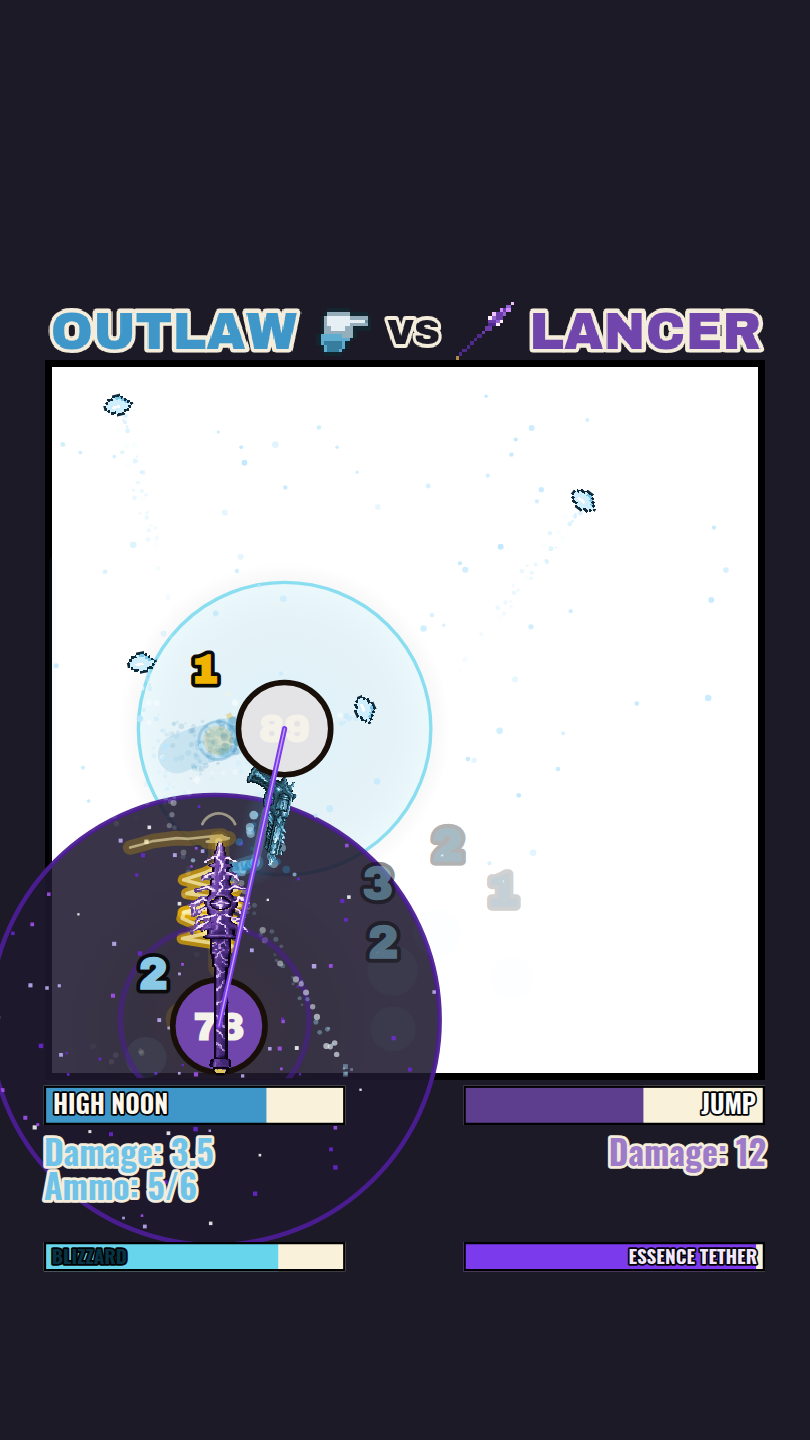
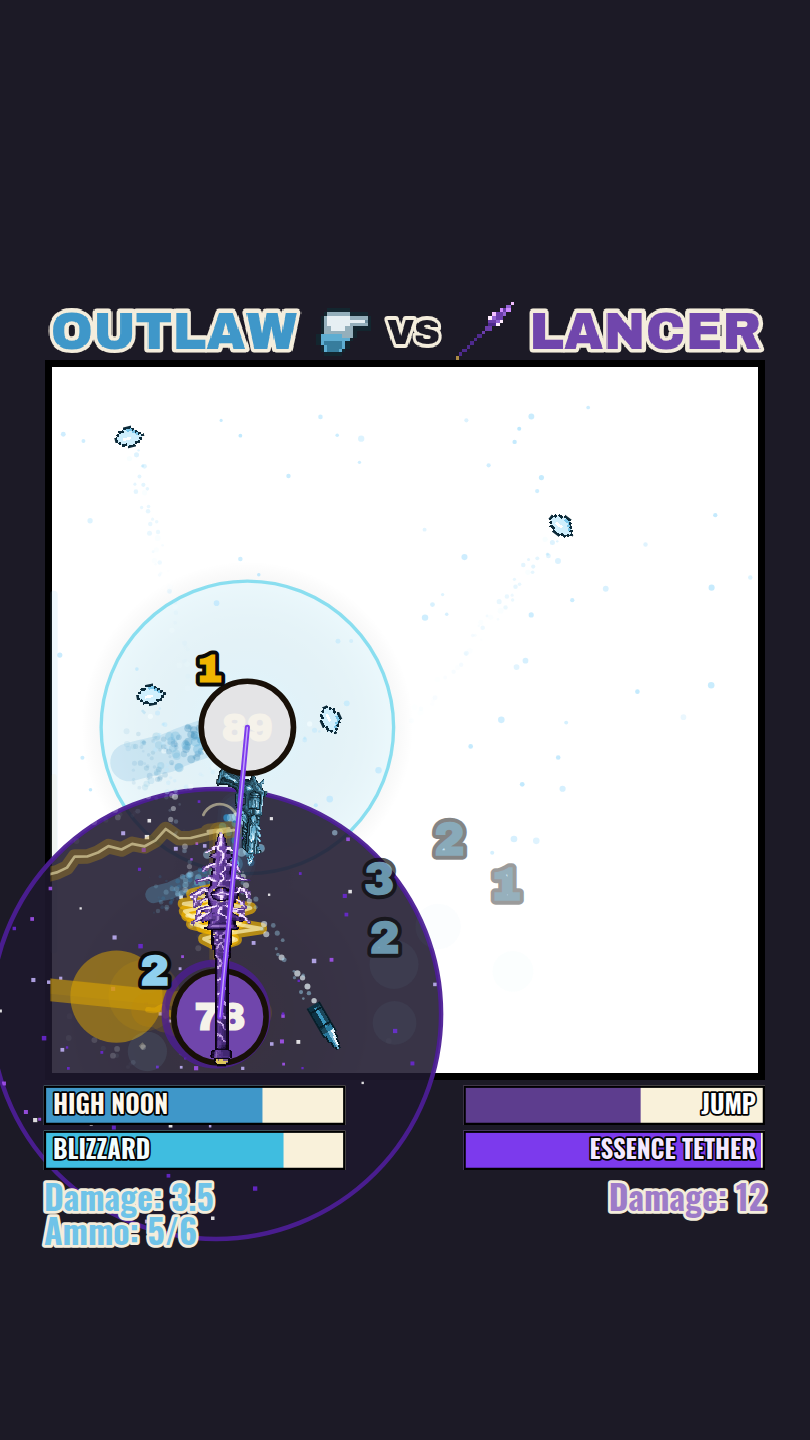
La jauge de pouvoir spécial passe juste sous celle de l'ultime, à l'identique
La seconde jauge vivait tout en bas, sous les lignes de statistique, et dans
un format réduit — libellé plus petit, barre plus basse. Elle se lisait comme
un petit frère de la jauge d'ultime plutôt que comme sa paire.

Elle est maintenant collée dessous et **identique** : `HUD.special` recopie
`HUD.bar` à l'ordonnée près (mêmes largeur, hauteur, abscisses, cadre, taille
et retrait de libellé). `y` vaut 1005, soit le bas de la jauge d'ultime
(965 + 35) plus les 5 px d'écart que la vidéo laisse avant la ligne de stat.

L'égalité n'est pas une copie de constantes
--------------------------------------------
`render/hud.js` traçait les deux jauges avec deux fonctions séparées, et
l'une avait déjà dérivé de l'autre. Elles passent désormais par **le même**
tracé (`drawGauge`), appelé avec deux géométries : une retouche de style les
touche toutes les deux par construction, et elles ne peuvent plus diverger.

Le fichier perd une trentaine de lignes au passage, malgré la fonction
ajoutée.

Les lignes de statistique descendent
-------------------------------------
Base 1036 -> 1076. C'est un écart assumé au relevé : la seconde jauge occupe
la bande où les glyphes tombaient. Le décalage vaut exactement la hauteur de
la jauge plus son écart (35 + 5), donc les proportions relevées entre jauge
et texte sont conservées — c'est le bloc entier qui glisse, pas l'espacement
qui change.

Le libellé du Blizzard reprend le traitement des jauges d'ultime — texte
[…]

diff --git a/src/render/hud.js b/src/render/hud.js
@@ -1,8 +1,12 @@
 /**
- * HUD bas d'écran : deux jauges d'ultime, la ligne de statistique de chaque
- * combattant, et — pour qui en porte un — une jauge de **pouvoir spécial**.
- * La géométrie des deux premiers est relevée au pixel sur la vidéo ; celle de
- * la troisième est déduite (voir `HUD.special` dans data/tuning.js).
+ * HUD bas d'écran : par combattant, une jauge d'ultime, une jauge de **pouvoir
+ * spécial** juste en dessous pour qui en porte un, puis ses lignes de
+ * statistique.
+ *
+ * Les deux jauges passent par **le même tracé** (`drawGauge`) : elles ne se
+ * ressemblent pas, elles sont identiques par construction. Seule leur
+ * géométrie diffère, et encore : `HUD.special` recopie `HUD.bar` à l'ordonnée
+ * près.
  *
  * @module render/hud
  */
@@ -12,7 +16,6 @@ import { clamp } from '../core/math.js';
 import { drawFittedText } from './text.js';
 
 const BAR_FONT = `700 ${HUD.bar.labelSize}px "Oswald", "Arial Narrow", sans-serif`;
-const SPEC_FONT = `700 ${HUD.special.labelSize}px "Oswald", "Arial Narrow", sans-serif`;
 const STAT_FONT = `700 ${HUD.stat.fontSize}px "Oswald", "Arial Narrow", sans-serif`;
 
 /**
@@ -26,85 +29,69 @@ const STAT_FONT = `700 ${HUD.stat.fontSize}px "Oswald", "Arial Narrow", sans-ser
  *   pas de deuxième jauge, ils ne laissent pas un cadre vide.
  */
 export function drawFighterHud(ctx, f, side, value, lang, spec) {
-  drawBar(ctx, f, side, value, lang);
+  drawGauge(ctx, HUD.bar, side, value, {
+    fill: f.el.ultimate.barFill,
+    text: f.el.ultimate.barText,
+    label: (lang === 'fr' && f.el.ultimate.barLabelFr) || f.el.ultimate.barLabel,
+    anchorRight: (f.el.ultimate.barAnchor ?? 'left') === 'right',
+  });
+  if (spec) {
+    drawGauge(ctx, HUD.special, side, spec.value, {
+      fill: f.el.special.barFill,
+      text: f.el.special.barText,
+      label: (lang === 'fr' && f.el.special.barLabelFr) || f.el.special.barLabel,
+    });
+  }
   drawStat(ctx, f, side, lang);
-  if (spec) drawSpecialBar(ctx, f, side, spec, lang);
 }
 
-function drawBar(ctx, f, side, value, lang) {
-  const b = HUD.bar;
-  const ult = f.el.ultimate;
-  const x = side === 'left' ? b.leftX : b.rightX;
+/**
+ * **Une jauge, et une seule fonction pour les deux rangées.**
+ *
+ * L'ultime et le pouvoir spécial partagent le même dessin : plaque crème,
+ * remplissage, cadre noir, libellé cerné de noir. Les deux rangées n'ont donc
+ * pas deux tracés qui se ressemblent — elles ont **le même**, appelé avec deux
+ * géométries. C'est ce qui garantit qu'elles ne peuvent plus diverger : une
+ * retouche de style les touche toutes les deux par construction.
+ *
+ * La première version en avait deux copies, dont l'une avait dérivé (libellé
+ * plus petit, couleur inversée selon l'état). Retoucher l'une sans l'autre est
+ * exactement le genre d'écart qui ne crie jamais.
+ *
+ * @param {CanvasRenderingContext2D} ctx
+ * @param {{y:number,height:number,width:number,leftX:number,rightX:number,border:number,labelPad:number}} g géométrie
+ * @param {'left'|'right'} side
+ * @param {number} value 0..1
+ * @param {{fill:string, text:string, label:string, anchorRight?:boolean}} style
+ */
+function drawGauge(ctx, g, side, value, style) {
+  const x = side === 'left' ? g.leftX : g.rightX;
   const v = clamp(value, 0, 1);
-  const anchorRight = (ult.barAnchor ?? 'left') === 'right';
 
   // plaque crème : l'intérieur de la jauge reste celui de la vidéo, même sur
   // le fond sombre — le libellé peut donc garder son contour noir
   ctx.fillStyle = STAGE.plate;
-  ctx.fillRect(x, b.y, b.width, b.height);
+  ctx.fillRect(x, g.y, g.width, g.height);
 
   // remplissage
-  const w = b.width * v;
-  ctx.fillStyle = ult.barFill;
-  ctx.fillRect(anchorRight ? x + b.width - w : x, b.y, w, b.height);
+  const w = g.width * v;
+  ctx.fillStyle = style.fill;
+  ctx.fillRect(style.anchorRight ? x + g.width - w : x, g.y, w, g.height);
 
   // cadre
   ctx.lineJoin = 'miter';
-  ctx.lineWidth = b.border;
+  ctx.lineWidth = g.border;
   ctx.strokeStyle = '#000000';
-  ctx.strokeRect(x + b.border / 2, b.y + b.border / 2, b.width - b.border, b.height - b.border);
+  ctx.strokeRect(x + g.border / 2, g.y + g.border / 2, g.width - g.border, g.height - g.border);
 
   // libellé
   ctx.font = BAR_FONT;
   ctx.textBaseline = 'middle';
   ctx.textAlign = side === 'left' ? 'left' : 'right';
-  const tx = side === 'left' ? x + b.labelPad : x + b.width - b.labelPad;
-  const label = (lang === 'fr' && ult.barLabelFr) || ult.barLabel;
-  drawFittedText(ctx, label, tx, b.y + b.height / 2 + 1, b.width - b.labelPad * 2, {
-    fill: ult.barText,
+  const tx = side === 'left' ? x + g.labelPad : x + g.width - g.labelPad;
+  drawFittedText(ctx, style.label, tx, g.y + g.height / 2 + 1, g.width - g.labelPad * 2, {
+    fill: style.text,
     stroke: '#000000',
-    strokeWidth: 3,
-  });
-}
-
-/**
- * Jauge du pouvoir spécial.
- *
- * Elle dit **deux choses avec le même remplissage**, et c'est voulu : hors
- * activité elle se remplit vers la prochaine incantation, pendant l'activité
- * elle se vide sur la durée restante. C'est la convention des jauges d'ultime
- * du jeu (`barValue` fait exactement ça), donc rien de nouveau à apprendre.
- *
- * Ce qui distingue les deux régimes n'est pas la jauge mais le **libellé** :
- * inversé sur fond plein pendant l'activité, posé sur la plaque crème sinon.
- * Sans ça, une jauge à moitié pleine ne dit pas si le pouvoir arrive ou s'en
- * va.
- */
-function drawSpecialBar(ctx, f, side, spec, lang) {
-  const b = HUD.special;
-  const sp = f.el.special;
-  const x = side === 'left' ? b.leftX : b.rightX;
-  const v = clamp(spec.value, 0, 1);
-
-  ctx.fillStyle = STAGE.plate;
-  ctx.fillRect(x, b.y, b.width, b.height);
-
-  ctx.fillStyle = sp.barFill;
-  ctx.fillRect(x, b.y, b.width * v, b.height);
-
-  ctx.lineJoin = 'miter';
-  ctx.lineWidth = b.border;
-  ctx.strokeStyle = '#000000';
-  ctx.strokeRect(x + b.border / 2, b.y + b.border / 2, b.width - b.border, b.height - b.border);
-
-  ctx.font = SPEC_FONT;
-  ctx.textBaseline = 'middle';
-  ctx.textAlign = side === 'left' ? 'left' : 'right';
-  const tx = side === 'left' ? x + b.labelPad : x + b.width - b.labelPad;
-  const label = (lang === 'fr' && sp.barLabelFr) || sp.barLabel;
-  drawFittedText(ctx, label, tx, b.y + b.height / 2 + 1, b.width - b.labelPad * 2, {
-    fill: spec.active ? sp.barText : '#1c1a26',
-    stroke: spec.active ? '#000000' : STAGE.plate,
     strokeWidth: 3,
   });
 }

diff --git a/src/data/tuning.js b/src/data/tuning.js
@@ -76,38 +76,45 @@ export const HUD = deepFreeze({
     labelSize: 22,
     labelPad: 8,
   },
-  // Lignes de statistique sous les jauges : glyphes 1005→1038.
-  // Certains éléments en affichent deux (Lumière : dégâts + recul,
-  // Eau : dégâts + taille) — interligne mesuré sur ces vidéos : 31 px.
+  /**
+   * **Jauge de pouvoir spécial, collée sous celle de l'ultime.**
+   *
+   * Tout est recopié de `bar` sauf `y` : mêmes largeur, hauteur, abscisses,
+   * cadre et libellé. C'est voulu — les deux rangées doivent se lire comme une
+   * paire, pas comme une jauge et son petit frère. `render/hud.js` les trace
+   * d'ailleurs avec **la même fonction**, donc l'égalité ne peut pas se perdre
+   * dans une retouche.
+   *
+   * `y` vaut 1005 : le bas de la jauge d'ultime (965 + 35) plus les 5 px
+   * d'écart que la vidéo laisse entre cette jauge et la ligne de stat.
+   */
+  special: {
+    y: 1005,
+    height: 35,
+    width: 268,
+    leftX: 39,
+    rightX: 412,
+    border: 2,
+    labelSize: 22,
+    labelPad: 8,
+  },
+  /**
+   * Lignes de statistique. Glyphes mesurés 1005→1038, soit une base à 1036 ;
+   * interligne mesuré 31 px sur les vidéos à deux lignes (Lumière, Eau).
+   *
+   * **La base descend de 1036 à 1076**, écart assumé au relevé : la seconde
+   * jauge occupe désormais la bande où les glyphes tombaient. Le décalage vaut
+   * exactement la hauteur de cette jauge plus son écart (35 + 5), donc les
+   * proportions relevées entre jauge et texte sont conservées — c'est le bloc
+   * entier qui glisse, pas l'espacement qui change.
+   */
   stat: {
-    baseline: 1036,
+    baseline: 1076,
     lineHeight: 31,
     fontSize: 30,
     leftX: 39,
     rightX: 681,
     strokeWidth: 5,
-  },
-  /**
-   * **Jauges de pouvoir spécial**, sous les lignes de statistique.
-   *
-   * Rien de mesuré ici : la vidéo de référence n'a pas de troisième créneau de
-   * pouvoir, donc pas de troisième jauge. La géométrie est **déduite** de
-   * celle des jauges d'ultime — mêmes `x` et mêmes largeurs, pour que les deux
-   * rangées s'alignent — et posée sous la deuxième ligne de stat (base 1067,
-   * jambages jusqu'à ~1078), qui est le cas le plus chargé du roster.
-   *
-   * Elles sont plus basses et plus discrètes que celles de l'ultime : un
-   * pouvoir greffé ne doit pas se lire comme l'ultime du personnage.
-   */
-  special: {
-    y: 1104,
-    height: 26,
-    width: 268,
-    leftX: 39,
-    rightX: 412,
-    border: 2,
-    labelSize: 17,
-    labelPad: 7,
   },
 });
 

diff --git a/src/data/elements.js b/src/data/elements.js
@@ -1624,8 +1624,11 @@ const OUTLAW = {
      *  venir son déclenchement au lieu de le subir. */
     barLabel: 'BLIZZARD',
     barLabelFr: 'BLIZZARD',
-    barFill: '#67d6ec',
-    barText: '#083344',
+    /** Même traitement de libellé que les jauges d'ultime — texte clair cerné
+     *  de noir — donc le fond doit être assez tenu pour le porter : `#67d6ec`
+     *  était trop pâle une fois le libellé passé à la taille de l'ultime. */
+    barFill: '#3fbde0',
+    barText: '#f2fdff',
     /** Calé : les duels du roster réduit durent 10 à 20 s. À 14 s d'horloge
      *  le Blizzard ne partait presque jamais et ne se voyait qu'en duel long ;
      *  à 5 s il tourne en continu. 9 s laisse deux incantations dans un duel

diff --git a/docs/FICHES.md b/docs/FICHES.md
@@ -511,19 +511,31 @@ exactement la forme des compteurs génériques du `Fighter` (`offstage`, `boost`
 l'interprète. Rien ne passe par `f.ult`, donc ni la jauge, ni la charge, ni la
 durée des deux ultimes existants ne sont touchées.
 
-**Ils ont leur propre jauge, sur une seconde rangée.** Le HUD n'en portait
-qu'une, celle de l'ultime ; `HUD.special` en ajoute une deuxième, plus basse et
-plus discrète, sous les lignes de statistique. Sa géométrie est **déduite** de
-celle des jauges d'ultime — mêmes `x`, mêmes largeurs, pour que les deux
-rangées s'alignent — et non relevée : la vidéo de référence n'a pas de
-troisième créneau de pouvoir.
+**Ils ont leur propre jauge, collée sous celle de l'ultime.**
 
-Elle dit **deux choses avec le même remplissage**, comme les jauges d'ultime :
+![Les deux rangées de jauges](capture-jauges.png)
+
+`HUD.special` recopie `HUD.bar` **à l'ordonnée près** : mêmes largeur, hauteur,
+abscisses, cadre, taille et retrait de libellé. Les deux rangées doivent se
+lire comme une paire, pas comme une jauge et son petit frère.
+
+Et l'égalité n'est pas une copie de constantes : `render/hud.js` trace les deux
+avec **la même fonction** (`drawGauge`), appelée avec deux géométries. Une
+retouche de style les touche donc toutes les deux par construction. La première
+version en avait deux tracés séparés, et l'un avait déjà dérivé — libellé plus
+petit, couleur du texte inversée selon l'état. Retoucher l'un sans l'autre est
+exactement le genre d'écart qui ne crie jamais.
+
+**Les lignes de statistique descendent de 1036 à 1076.** C'est un écart assumé
+au relevé : la seconde jauge occupe la bande où les glyphes tombaient. Le
+décalage vaut exactement la hauteur de la jauge plus son écart (35 + 5), donc
+les proportions relevées entre jauge et texte sont conservées — c'est le bloc
+entier qui glisse, pas l'espacement qui change.
+
+La jauge dit **deux choses avec le même remplissage**, comme celles d'ultime :
 elle se remplit vers la prochaine incantation, puis se vide sur la durée
-d'activité. Ce qui distingue les deux régimes n'est pas la jauge mais le
-**libellé** — inversé sur fond plein pendant l'activité, posé sur la plaque
-crème sinon. Sans ça, une jauge à moitié pleine ne dirait pas si le pouvoir
-arrive ou s'en va.
+d'activité. C'est la convention du jeu (`barValue` fait exactement ça), donc
+rien de nouveau à apprendre.
 
 Le module l'alimente par `specialBar(f)`, méthode **optionnelle** de la même
 forme que `drawUnbounded` : les neuf combattants sans troisième créneau ne

diff --git a/CLAUDE.md b/CLAUDE.md
@@ -807,12 +807,16 @@ couleurs par percentile plutôt que par moyenne, le JPEG bruite).
   rien ne passe par `f.ult`, donc HIGH NOON et le Bond sont intacts. La
   contrepartie était qu'il **n'avait pas de jauge**, le HUD n'en portant qu'une.
   Il en porte maintenant **deux rangées** : `HUD.special` ajoute une seconde
-  barre, plus basse et plus discrète, sous les lignes de statistique. Sa
-  géométrie est **déduite** de celle des jauges d'ultime (mêmes `x`, même
-  largeur) et non relevée — la vidéo de référence n'a pas de troisième créneau
-  de pouvoir. Un module l'alimente par `specialBar(f)`, méthode **optionnelle** :
-  les neuf combattants sans troisième créneau ne l'implémentent pas, et
-  n'affichent donc pas un cadre vide.
+  barre **collée sous celle de l'ultime**, et **identique** à elle — mêmes
+  largeur, hauteur, abscisses, cadre et taille de libellé. Les deux passent par
+  le **même tracé** (`drawGauge` dans `render/hud.js`), donc elles ne peuvent
+  pas diverger : la première version en avait deux copies, dont l'une avait
+  déjà dérivé. Les lignes de statistique descendent d'autant (base 1036 → 1076,
+  soit exactement la hauteur de la jauge plus son écart) — écart assumé au
+  relevé, c'est le bloc entier qui glisse. Un module alimente la jauge par
+  `specialBar(f)`, méthode **optionnelle** : les neuf combattants sans
+  troisième créneau ne l'implémentent pas, et n'affichent donc pas un cadre
+  vide.
 - **Regrouper autrement les mêmes produits change le résultat.** En réécrivant
   `bladeSegment()` pour y loger la vrille, `c * reach * hitbox.from` est devenu
   `c * (reach * hitbox.from)`. La multiplication flottante **n'est pas

diff --git a/README.md b/README.md
@@ -31,7 +31,7 @@ leurs couleurs, leurs armes et leurs formules relevées sur *leur* vidéo.
 | **Lancier** | Lance électrique (**164 px, la plus longue portée du jeu**) — **elle suit son cap de déplacement**, elle ne vise pas | **charge** en ligne droite à 2,6 × sa vitesse, pointe en avant, en semant des images fantômes ; dégâts qui montent de **+2 par touche portée** | Bond / JUMP — il **quitte l'arène** 1,5 s, un marqueur suit sa cible, puis il retombe dessus |
 
 Les deux invités jouables portent en plus un **pouvoir spécial greffé**, sur
-horloge propre, avec leur propre jauge sous les lignes de stat : le
+horloge propre, avec leur propre jauge juste sous celle de l'ultime : le
 **Blizzard** de la Glace pour le Hors-la-loi
 (champ de givre qui le suit, ralentit et grignote) et le **Lien d'essence** de
 l'Ombre pour le Lancier (dôme figé + rayon qui draine). Ils s'ajoutent à leur
